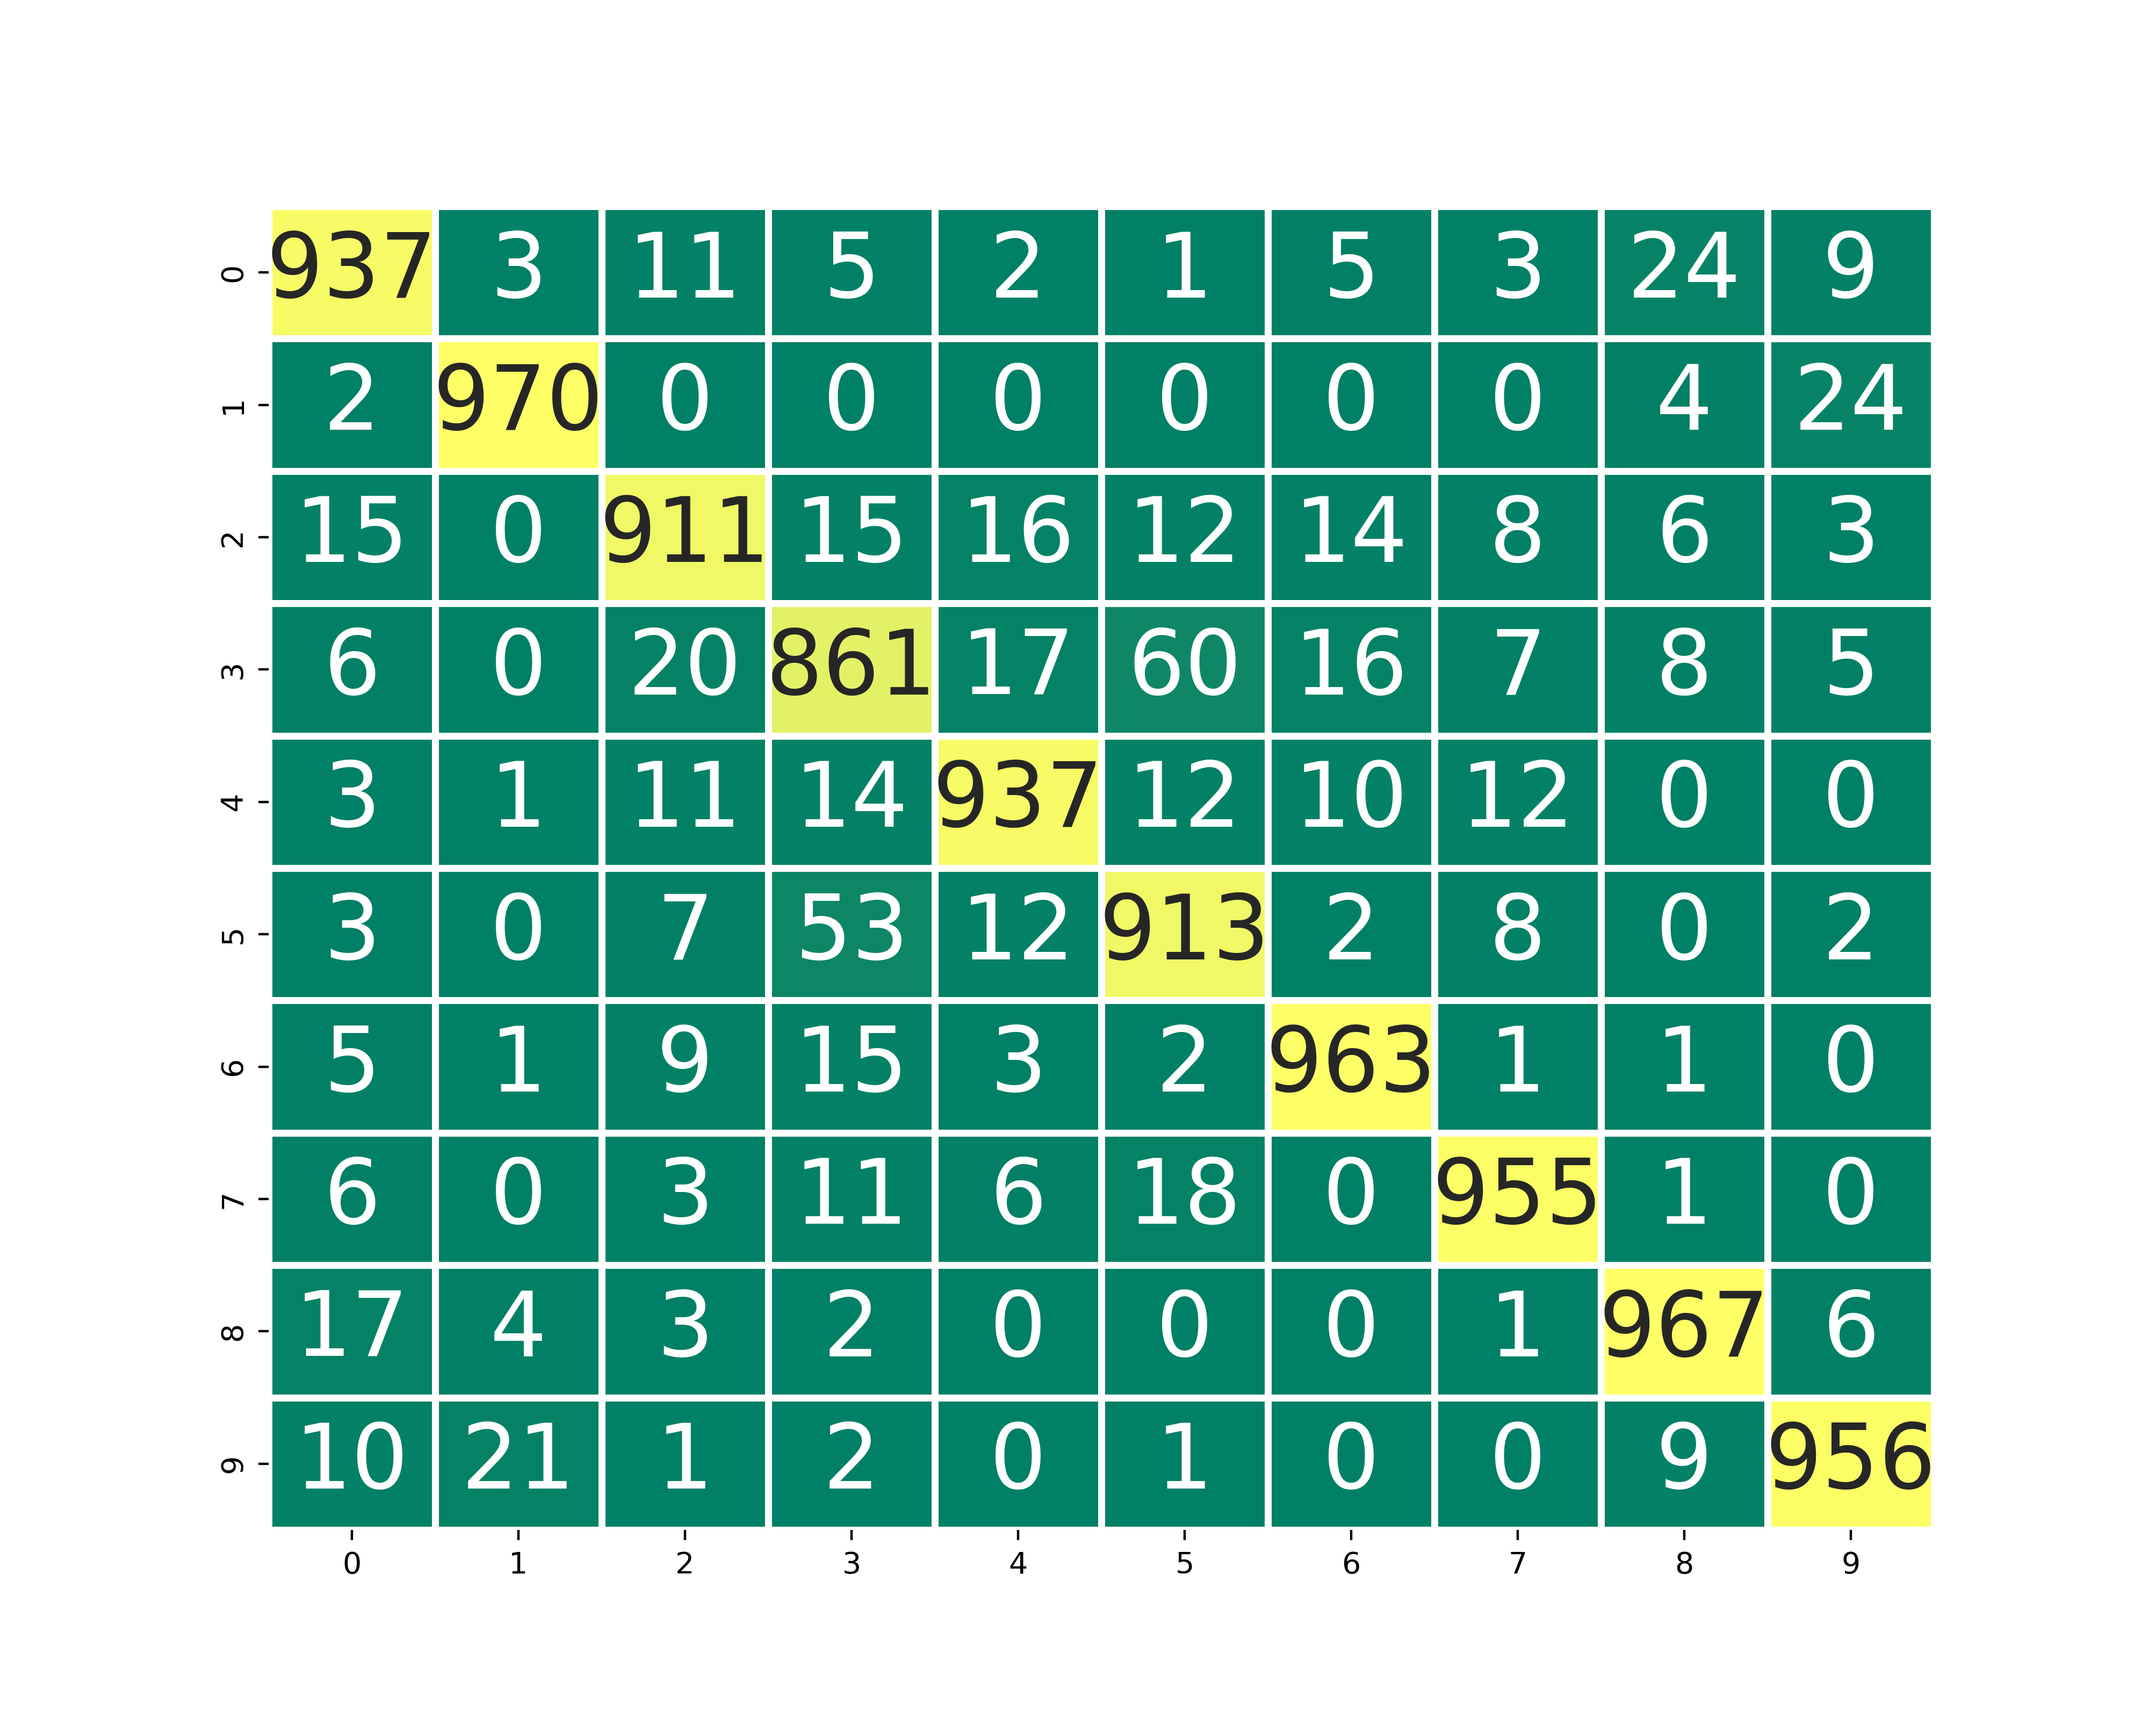
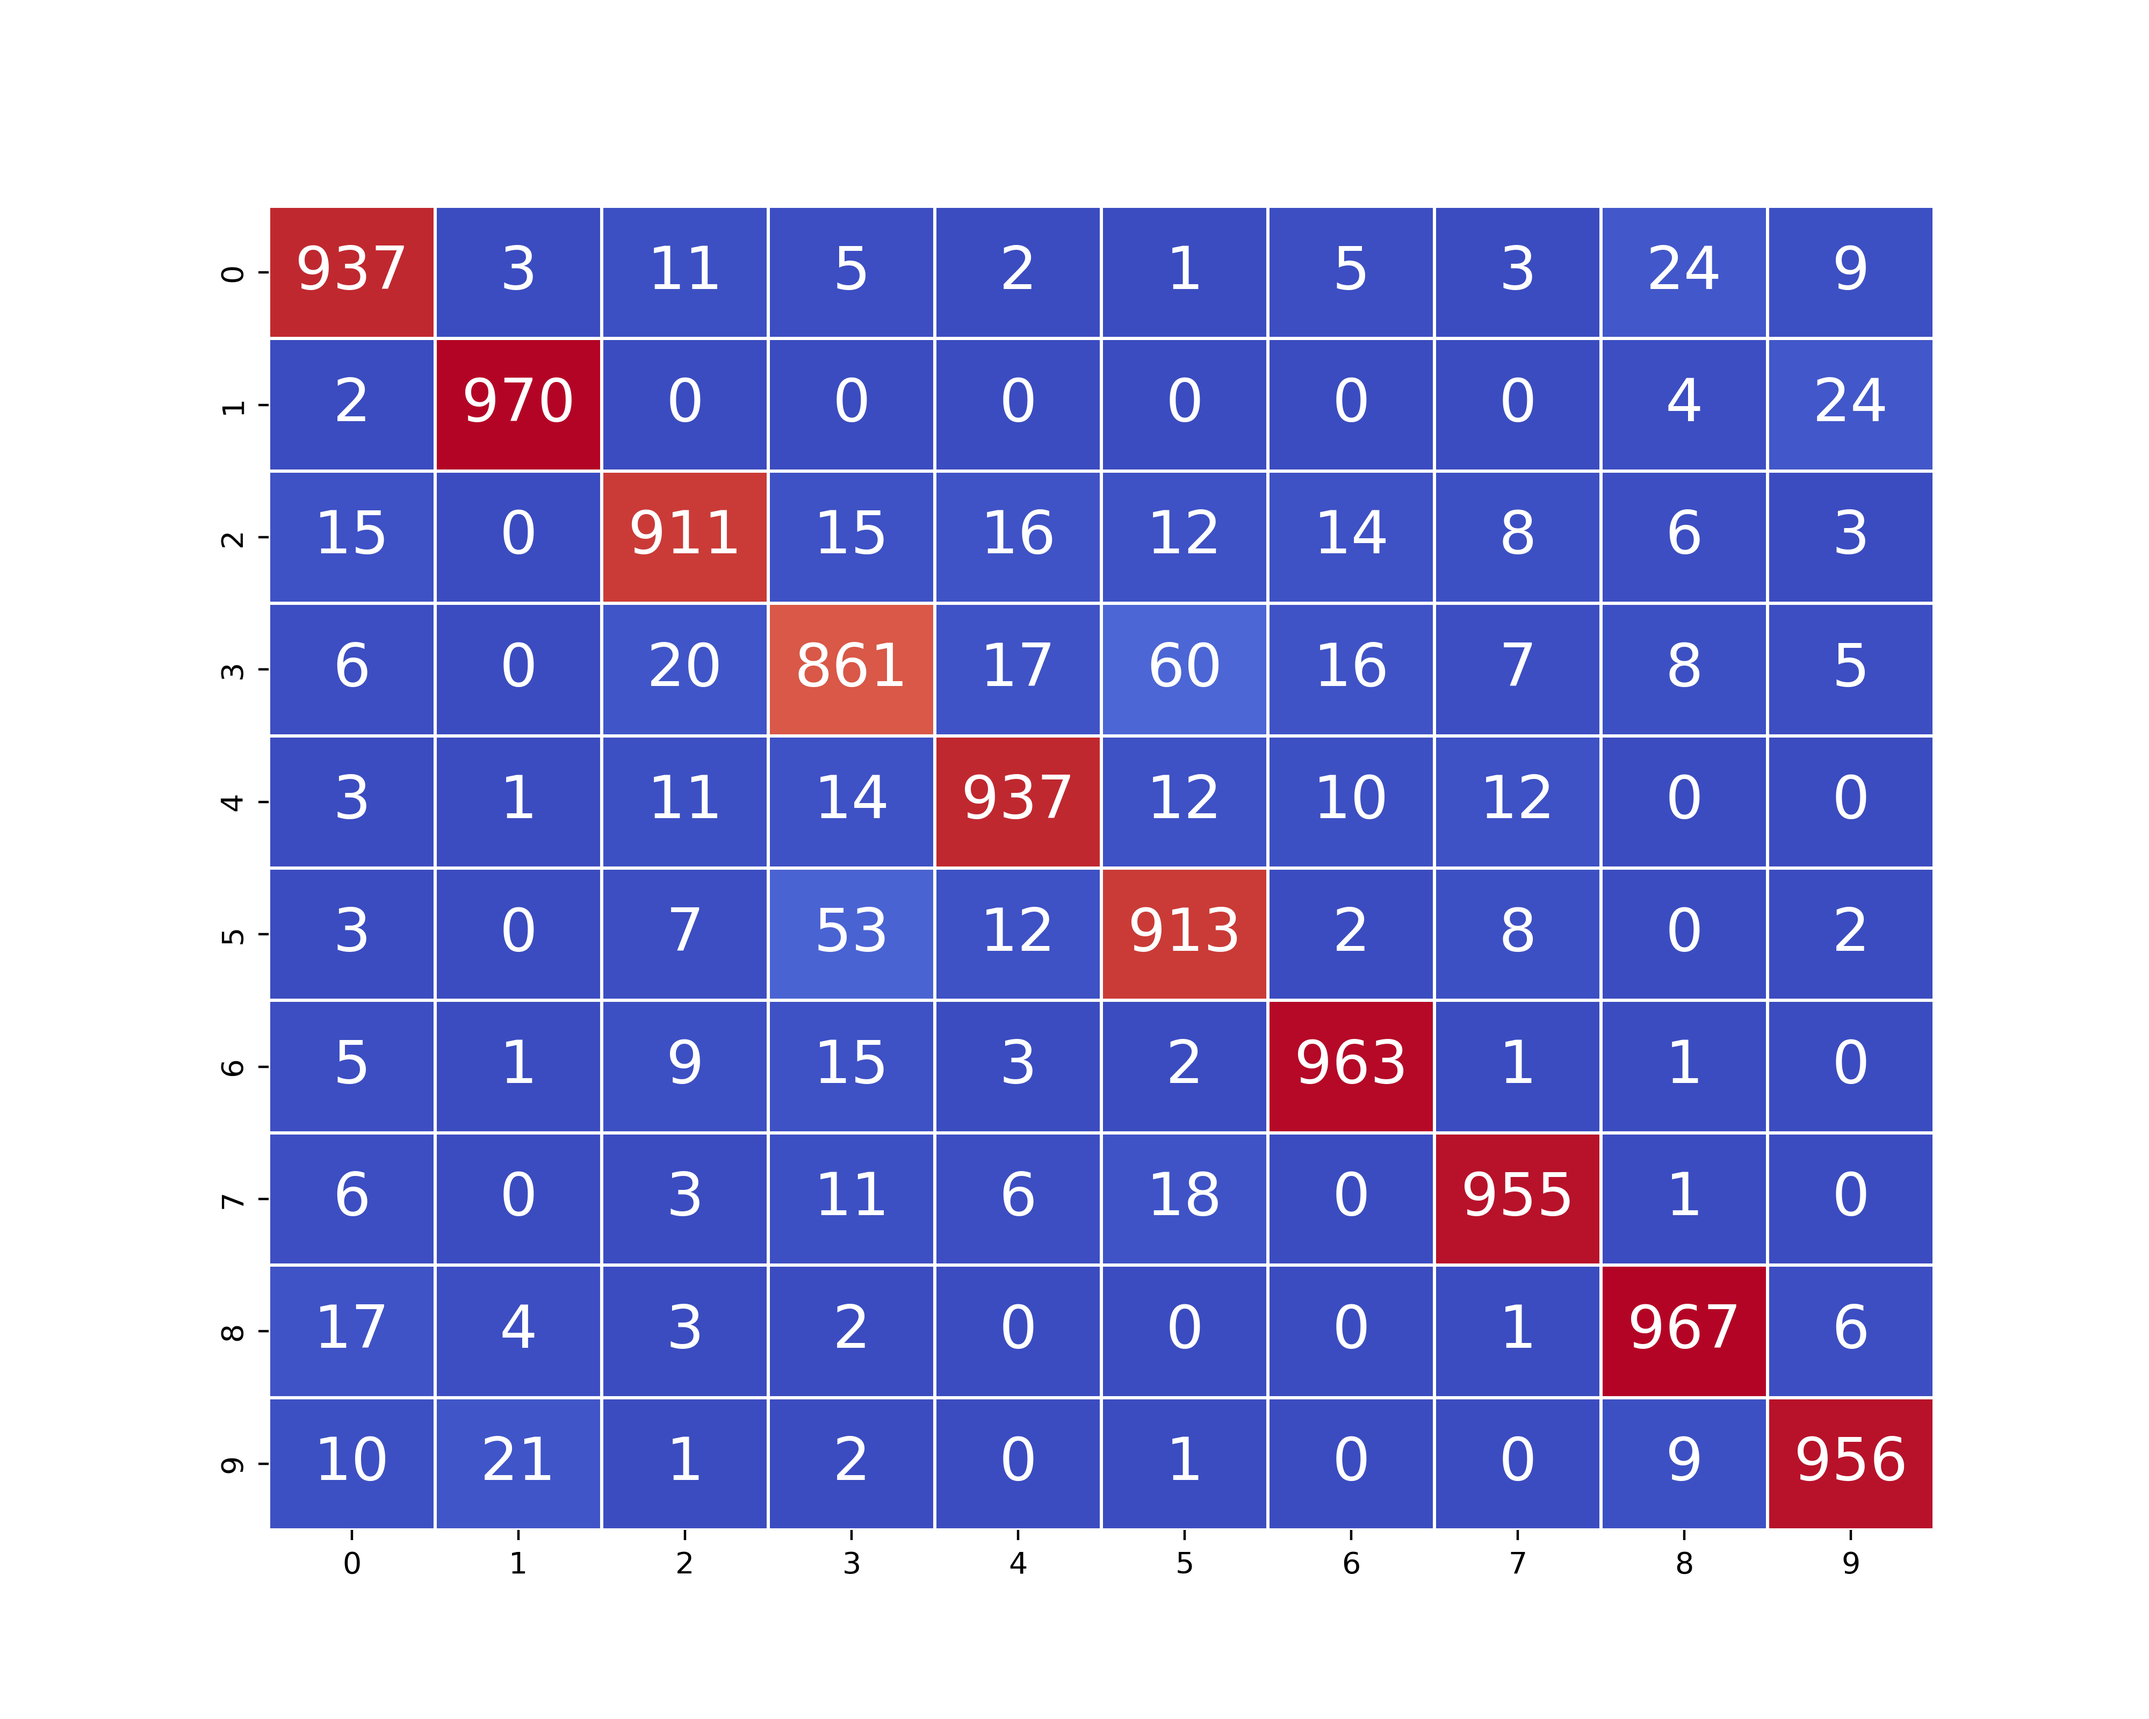
分类错误样本展示

diff --git a/plotConfuseMatrix.py b/plotConfuseMatrix.py
@@ -1,0 +1,65 @@
+import os
+import torch
+import torchvision
+from torch import nn
+from tqdm import tqdm
+import seaborn as sns
+import matplotlib.pyplot as plt
+from net.CifarNet import CifarNet, split_weights
+from torch.utils.data import DataLoader
+import torchvision.transforms as transforms
+from tools import scheduler, losses, ext_transforms, dataset, metric, utils
+
+
+os.environ["CUDA_VISIBLE_DEVICES"] = "0"
+
+Test_transform = transforms.Compose([
+   transforms.ToPILImage(),
+    transforms.ToTensor(),
+    transforms.Normalize((0.4914, 0.4822, 0.4465), (0.2023, 0.1994, 0.2010))
+])
+
+testDataset = dataset.CifarDataset(train=False, transform=Test_transform)
+testLoader = DataLoader(testDataset, batch_size=100, shuffle=True, num_workers=2, drop_last=True)
+
+with torch.no_grad():
+
+    model = CifarNet(num_classes=10).cuda()
+    state_dict = torch.load('./weights/best_acc_0.pth')
+    model.load_state_dict(state_dict)
+    model.eval()
+    testMetric = metric.StreamSegMetrics(n_classes=10)
+    labelName = ['airplane', 'automobile', 'bird', 'cat', 'deer', 'dog', 'frog', 'horse', 'ship', 'truck']
+    for images, labels in tqdm(testLoader):
+
+        images = images.to(torch.float32)
+        labels = labels.to(torch.long)
+        images = images.cuda()
+        labels = labels.cuda()
+        outputs = model(images)
+        outputs = torch.argmax(outputs, 1)
+        index = (outputs != labels)
+        error_images = images[index]
+        error_output = outputs[index]
+        error_label = labels[index]
+        print(len(error_images), error_images.shape)
+        for idx, error_image in enumerate(error_images):
+            error_image[0] = error_image[0] * 0.2023 + 0.4914
+            error_image[1] = error_image[1] * 0.1994 + 0.4822
+            error_image[2] = error_image[2] * 0.2010 + 0.4465
+            image = transforms.ToPILImage()(error_image)
+            image.save(f'error_images/output_{error_output[idx]}_label_{error_label[idx]}.jpg')
+        testMetric.update(label_trues=labels.cpu().numpy(), label_preds=outputs.cpu().numpy())
+
+    result = testMetric.get_results()
+    print(f'Acc Class:', result['Acc'])
+
+    plt.figure(figsize=(10,8))
+    f, ax= plt.subplots(figsize = (10, 8))
+
+    sns.set_theme(style="whitegrid", palette="pastel")
+    fig = sns.heatmap(testMetric.confusion_matrix, annot=True, fmt='.20g', cmap='coolwarm', ax=ax, linewidths=1, annot_kws={'size':20},cbar=False)   # cmap="binary",
+    confuse_matrix = fig.get_figure()
+    confuse_matrix.savefig('./imgs/confuse_matrix.png', dpi=400)
+    print(testMetric.confusion_matrix)
+

diff --git a/readMe.md b/readMe.md
@@ -126,7 +126,7 @@ tensorboard --logdir runs
     
 ### 3. 各个参数组合实验结果
 
-|Base_lr       |Optimizer      |Weight Decay   |Acc       |
+|**Base_lr**   |**Optimizer**  |**Weight Decay** |**Acc** |
 |:------------:|:-------------:|:-------------:|:--------:|
 |0.1           |SGD            |1e-4           |66.32%    |
 |0.1           |SGD            |5e-4           |69.40%    |
